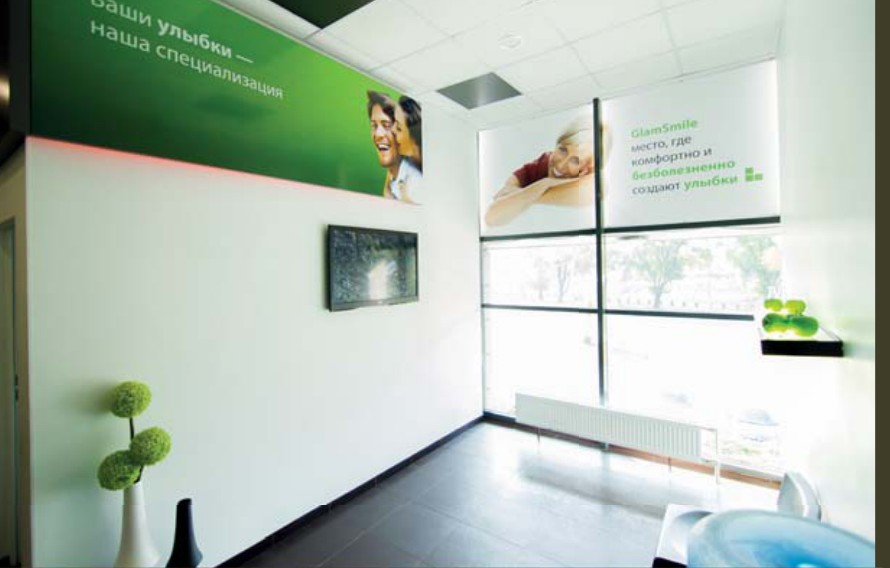
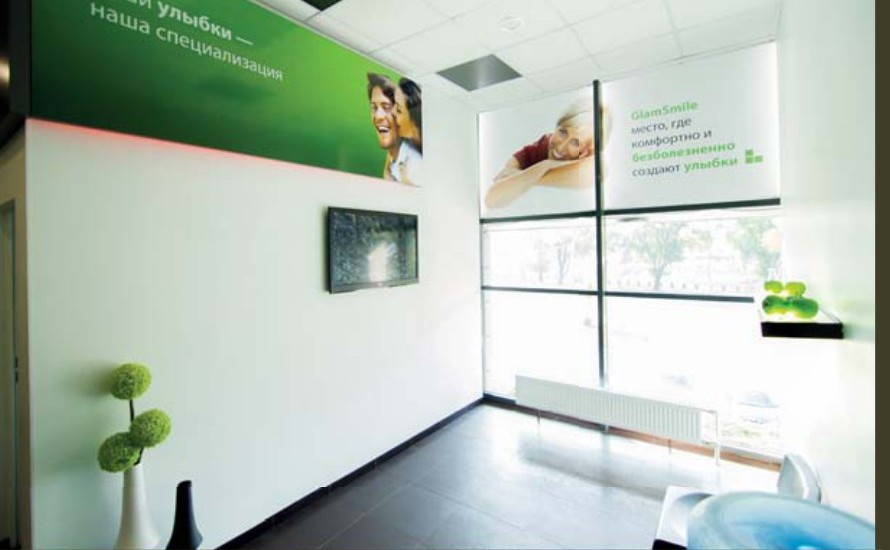
Верифікація ДентАрт 4(85)/2016: виправлено 6 статей
Мурадов, Рудо, Велге/Егбалі — відновлено пропущені блоки
Резюме/Ключові слова/Abstract/Key words (усі три забракли повністю).
Велге/Егбалі — додано рядок атрибуції джерела «Клуб стоматологів».
Мурадов — виправлено «непомітною» → «непоміченою» (зміна змісту
речення про деформацію відтиска).
Лазарєва «Техніка штампа» — виправлено дефіс («матовобілою» →
«матово-білою») і латинську літеру в alt-тексті («приховaний» →
«прихований»).
Вітальня Дахно — прибрано задвоєну фразу «Такою буде нова клініка.»
з початку відповіді (в оригіналі це лише підпис під фото).
GlamSmile (інтер'єр) — фото рецепції (102) повністю перезібрано з
сирих image-тайлів PDF замість рендера сторінки: заголовок рубрики
«ІНТЕР'ЄР...» був вбудований у растр лише під час рендерингу
сторінки (векторний шар), сирі тайли виявились абсолютно чистими;
2 інших фото (101, 103) донарізані від тонких смуг фону макета.

Чисто (без правок): Радлінський-абатмент, Демидов, Толкачова,
Ладигіна (підтверджено — легітимний передрук 2016№4→2023№1 у
самому журналі, не помилка архіву), Постолакі, Brown, Пам'яті
Политун, ART Колесніков.

diff --git a/statti-muradov-otrymannia-dvoetapnoho-dvosharovoho-vidtyska.html b/statti-muradov-otrymannia-dvoetapnoho-dvosharovoho-vidtyska.html
@@ -172,6 +172,12 @@ fbq('track', 'PageView');
         </div>
       </div>
       <div class="art-body">
+      <div class="abstract">
+        <div class="row"><div class="lbl">Резюме</div><div>У статті йдеться про популярний у незнімному протезуванні двоетапний двошаровий метод отримання відтиска і ті особливості та нюанси, на які слід звертати увагу, щоб досягти успіху при виготовленні ортодонтичних конструкцій. Серед цих нюансів — продуманий вибір відтискного матеріалу, належна підготовка протезного ложа при отриманні відтиска, ретельне виконання лікарем усіх вимог методики.</div></div>
+        <div class="row"><div class="lbl">Ключові слова</div><div>двоетапний двошаровий відтиск, поліефірні, А-силіконові, С-силіконові відтискні матеріали, коригуючі відтискні матеріали, протезне ложе, ретракція.</div></div>
+        <div class="row"><div class="lbl">Abstract</div><div class="en">This article discusses a popular fixed restoration procedure namely the two-stage method of taking a double-layer impression, as well as some aspects and subtleties that need to be taken into account in order to successfully make an orthodontic structure. These subtleties include a good choice of the impression material, appropriate preparation of the denture base when taking the impression, and strict adherence with the method on the part of the clinician.</div></div>
+        <div class="row"><div class="lbl">Key words</div><div class="en">a two-stage double-layer impression; polyether, А-silicone, С-silicone impression materials, correction impression materials, denture base, retraction.</div></div>
+      </div>
 <p class="lead">Існують різні класифікації відтисків за методом їх отримання, запропоновані вітчизняними і зарубіжними вченими. В основі однієї з останніх класифікацій лежить принцип етапності отримання відтиска, а також кількості шарів, з яких він складається.</p>
 
 <p>Згідно з цією класифікацією, сучасні методи отримання відтиска еластичними матеріалами можна розподілити на дві великі групи: одноетапні і двоетапні. При одноетапному знятті відтиска ложку з відтискним матеріалом накладають один раз і після виведення ложки з порожнини рота отриманий відтиск відправляють у лабораторію. Суть двоетапних методів полягає в тому, що відтиск знімають по черзі: спочатку базовою масою, а потім, після її структурування для уточнення деталей протезного ложа, роблять повторне накладання отриманого відтиска з додаванням коригувального матеріалу.</p>
@@ -264,7 +270,7 @@ fbq('track', 'PageView');
 
 <p>На другому етапі перед внесенням ложки в порожнину рота базовий відтиск заповнюють коригувальним матеріалом (фото 11). При використанні систем автозамішування установку внутрішньоротової канюлі на змішувальну доцільніше робити після того, як базовий відтиск заповнений коригувальним матеріалом (фото 12). Відразу після заповнення коригувальним матеріалом зони протезного ложа роблять спрямоване внесення матеріалу в зубоясенну борозенку навколо опорних зубів, звертаючи увагу на те, щоб кінчик канюлі був постійно занурений у матеріал (фото 13).</p>
 
-<p>Наступний етап — накладання базового відтиска. Дуже важливо провести правильне позиціонування відтиска у ротовій порожнині, звертаючи увагу на те, щоб ложка з базовим відтиском була максимально точно встановлена на зубному ряду. Під час полімеризації коригувального матеріалу відтиск утримують руками в нерухомому стані на зубному ряду. Після закінчення часу, потрібного для повного застигання матеріалу, відтиск виводять. При цьому слід звертати увагу на те, щоб шлях зміщення ложки із зубного ряду був максимально паралельний осі опорних зубів. На цьому етапі існує ризик виникнення деформації відтиска, яка залишиться непомітною і в подальшому може призвести до значних похибок готових ортопедичних конструкцій.</p>
+<p>Наступний етап — накладання базового відтиска. Дуже важливо провести правильне позиціонування відтиска у ротовій порожнині, звертаючи увагу на те, щоб ложка з базовим відтиском була максимально точно встановлена на зубному ряду. Під час полімеризації коригувального матеріалу відтиск утримують руками в нерухомому стані на зубному ряду. Після закінчення часу, потрібного для повного застигання матеріалу, відтиск виводять. При цьому слід звертати увагу на те, щоб шлях зміщення ложки із зубного ряду був максимально паралельний осі опорних зубів. На цьому етапі існує ризик виникнення деформації відтиска, яка залишиться непоміченою і в подальшому може призвести до значних похибок готових ортопедичних конструкцій.</p>
 
 <p>Після виведення готовий відтиск оцінюють (фото 14). Перевіряють якість відображення рельєфу поверхні протезного ложа, особливо приясенної зони опорних зубів (фото 15). На відтиску не має бути пор, порожнин або відтяжок, відтискна маса повинна щільно прилягати до стінок ложки. Після цього відтиск дезінфікують і відправляють у лабораторію.</p>
 

diff --git a/statti-lazarieva-tekhnika-shtampa-restavratsiia-bichnykh-zubiv.html b/statti-lazarieva-tekhnika-shtampa-restavratsiia-bichnykh-zubiv.html
@@ -187,9 +187,9 @@ fbq('track', 'PageView');
 <p>При таких відновленнях підійде матеріал з гарними мануальними властивостями Сегам.X One Universal/Dentsply DeTrey. У нього 7 відтінків, які відображають усю палітру відтінків шкали Віта. Завдяки усередненій прозорості між емаллю і дентином Сегам.X One Universal має яскраво виражений ефект хамелеона. Спрощена система вибору відтінків Сегам.X One Universal скорочує час для виконання естетичних реставрацій і усуває необхідність мати широкий асортимент відтінків. У цьому випадку відтінок досить світлий — А1 за шкалою Віта, відповідно, відтінок Сегам.X One Universal теж А1.</p>
 
 <div class="gal">
-  <figure><img class="aimg" src="images/laz164-002.jpg" width="497" height="303" loading="lazy" alt="Клінічний приклад — приховaний карієс, підбір відтінку"></figure>
-  <figure><img class="aimg" src="images/laz164-003.jpg" width="470" height="293" loading="lazy" alt="Клінічний приклад — приховaний карієс, підбір відтінку"></figure>
-  <figure><img class="aimg" src="images/laz164-004.jpg" width="497" height="284" loading="lazy" alt="Клінічний приклад — приховaний карієс, підбір відтінку"></figure>
+  <figure><img class="aimg" src="images/laz164-002.jpg" width="497" height="303" loading="lazy" alt="Клінічний приклад — прихований карієс, підбір відтінку"></figure>
+  <figure><img class="aimg" src="images/laz164-003.jpg" width="470" height="293" loading="lazy" alt="Клінічний приклад — прихований карієс, підбір відтінку"></figure>
+  <figure><img class="aimg" src="images/laz164-004.jpg" width="497" height="284" loading="lazy" alt="Клінічний приклад — прихований карієс, підбір відтінку"></figure>
 </div>
 
 <p>Перед препаруванням коригувальною відтискною масою (у цьому випадку А-силіконом) було знято відтиск-штамп з оклюзійної поверхні зуба. Для цієї мети можна використовувати текучий композит або рідкий світлоотверджувальний рабердам. Ці матеріали здатні досить точно відтворити оклюзійну анатомію, однак занадто крихкі і не дають можливості відтискувати композитний матеріал з невеликим тиском. Також можна використовувати прозору силіконову масу, проте застосування її в таких рідкісних випадках, на нашу думку, — марнотратство. Для зручного використання в матеріал можна занурити аплікатор. Штамп можна обрізати скальпелем, видаляючи надлишки коригуючої маси, щоб він ідеально адаптувався до поверхні зуба. У штампі чудово зберігаються всі тонкі деталі фісурного малюнка.</p>
@@ -206,7 +206,7 @@ fbq('track', 'PageView');
   <figure><img class="aimg" src="images/laz164-009.jpg" width="497" height="303" loading="lazy" alt="Зняття відтиску-штампа й тотальне протравлювання"></figure>
 </div>
 
-<p>Після протравлювання порожнину промивають протягом 30 с водою і злегка підсушують повітрям. Емаль при цьому повинна стати матовобілою, а дентин залишитися злегка вологим, «іскристим». Після правильно виконаної техніки тотального протравлювання поверхня емалі стає мікрошорсткою, змащений шар на поверхні дентину розчиняється і повністю видаляється, поверхневі шари дентину демінералізуються, оголюються колагенові волокна, розкриваються дентинні канальці.</p>
+<p>Після протравлювання порожнину промивають протягом 30 с водою і злегка підсушують повітрям. Емаль при цьому повинна стати матово-білою, а дентин залишитися злегка вологим, «іскристим». Після правильно виконаної техніки тотального протравлювання поверхня емалі стає мікрошорсткою, змащений шар на поверхні дентину розчиняється і повністю видаляється, поверхневі шари дентину демінералізуються, оголюються колагенові волокна, розкриваються дентинні канальці.</p>
 
 <p>Як правило, відсутність оптимального рівня вологості поверхні дентину є причиною виникнення післяопераційної чутливості і зниження сили адгезії. Ми надаємо перевагу спиртовмісній адгезивній системі Prime&amp;Bond One Etch &amp; Rinse/Dentsply DeTrey, яка демонструє чудові довготермінові результати за різного ступеня вологості дентину. Висушувати адгезив слід не надто сильним струменем повітря, оскільки це може призвести до блискавичного випаровування розчинника, перепаду осмотичного тиску в дентинних канальцях і травми одонтобластів. Правильне висушування адгезиву триває приблизно 30 с, у результаті стінки порожнини мають бути покриті тонкою блискучою плівкою. Ця плівка не повинна рухатися під дією струменя повітря.</p>
 

diff --git a/statti-velghe-eghbali-estetyka-u-frontalnii-diliantsi.html b/statti-velghe-eghbali-estetyka-u-frontalnii-diliantsi.html
@@ -175,6 +175,12 @@ fbq('track', 'PageView');
         </div>
       </div>
       <div class="art-body">
+      <div class="abstract">
+        <div class="row"><div class="lbl">Резюме</div><div>Мультидисциплінарний підхід відіграє значну роль у досягненні передбачуваних результатів лікування. У статті продемонстровано сучасний підхід точного аналізу і передопераційного планування при реконструкції втрачених зубів в естетично важливій ділянці щелепи. Описано клінічний випадок складної реконструкції в зоні двох втрачених центральних різців на верхній щелепі.</div></div>
+        <div class="row"><div class="lbl">Ключові слова</div><div>мультидисциплінарна стоматологія, імплантація зубів у фронтальній ділянці, реконструкція в естетично значущій зоні.</div></div>
+        <div class="row"><div class="lbl">Abstract</div><div class="en">Multidisciplinary collaboration plays a significant part in achieving predictable treatment results. This article raises awareness of the importance of accurate case analysis and pre-operative planning the reconstruction of two lost central incisors. The article describes the clinical case of complex reconstruction in the area of two lost central incisors in the upper jaw.</div></div>
+        <div class="row"><div class="lbl">Key words</div><div class="en">multidisciplinary dentistry, implantation in the frontal area, reconstruction in the aesthetically important region.</div></div>
+      </div>
 <p class="lead">У цій статті описано клінічний випадок реконструкції двох втрачених центральних різців на верхній щелепі. Після видалення зуба 11 було проведено заходи для збереження кісткової тканини альвеолярного відростка, а через 8 тижнів — процедуру імплантації з фіксацією провізорної ортопедичної конструкції. Безпосередньо перед встановленням тимчасового протеза був видалений зуб 21, в зоні якого відразу ж встановили дентальний імплантат.</p>
 
 <p>Втрата зубів в естетично важливій ділянці щелепи є причиною значного стресу для стоматологічних пацієнтів. Завдяки тому, що прогнозованість процедури дентальної імплантації зростає, відновлення ділянок адентії за допомогою інфраоссальних титанових структур набуває все більшої популярності. Нині критерієм успішності імплантації є не тільки сам факт остеоінтеграції імплантата, але також і естетичний результат лікування: важливо, щоб така реставрація гармоніювала з усмішкою, з основними структурами обличчя. У свою чергу періімплантатні м'які тканини повинні максимально відповідати параметрам інтактних ясен з урахуванням їх висоти, об'єму, відтінку і контуру, а реставрація — імітувати колір, форму, структуру, розмір та оптичні характеристики природного зуба і жодним чином не виділятися із зубного ряду.</p>
@@ -242,6 +248,8 @@ fbq('track', 'PageView');
 <h2>Висновки</h2>
 
 <p>Мультидисциплінарний командний підхід — важлива і значуща складова на шляху до досягнення прогнозованого результату лікування. Крім того, детальний аналіз та планування ятрогенних втручань відіграють не менш важливу роль у забезпеченні успішного результату реабілітації. Фото- та відеодокументація залишаються потужними інструментами повсякденної практики сучасних лікарів-стоматологів.</p>
+
+<div class="note">Статтю надав стоматологічний портал Клуб стоматологів (www.stomatologclub.ru)</div>
       </div>
     </article>
   </main>

diff --git a/statti-vitalnia-larysa-dakhno.html b/statti-vitalnia-larysa-dakhno.html
@@ -269,7 +269,7 @@ fbq('track', 'PageView');
 <p class="cap">Діти для мами — натхнення, а мама для них — приклад.</p>
 
 <p class="q">— За правилами бізнесу кожні 7 років потрібно робити щось нове, оскільки те, що ми робимо, до сьомого року починає перетворюватися на рутину, і далі неминуче настає кінець. Потрібно постійно шукати щось нове, щоб підніматися по сходинках вище і вище. І ось на Вашій сторінці у Фейсбуці з'явилося фото сучасної будівлі на вул. Зоологічній. Ви не побоялися про це публічно заявити. Що це за будівля?</p>
-<p class="a">— Такою буде нова клініка. Я довго думала, робити цей проект відомим чи приховувати до відкриття. Але у мене по життю завжди виходить так, що вербальне стає матеріальним. Тому я вирішила розповісти про початок будівництва нової клініки. «Клініка голови і шиї» (робоча назва) запланована як мультидисциплінарна клініка, де будуть працювати отоларингологи, стоматологи, щелепно-лицьові і пластичні хірурги. Уже сьогодні ми працюємо командою лікарів у такому складі, що й дало мені сили подумати про можливості реалізації великого проекту. У плані дитяче і доросле відділення, невеликий готель для приїжджих пацієнтів і родичів маленьких пацієнтів, аудиторія для навчання. Найбільша моя мрія — це кваліфіковане лікування та реабілітація дітей з вродженими патологіями. Ще раз повторюся, що люди, з якими я нині працюю, саме наша команда дає мені впевненість у тому, що ми все зможемо. Сьогодні це моя найбільша мрія.</p>
+<p class="a">— Я довго думала, робити цей проект відомим чи приховувати до відкриття. Але у мене по життю завжди виходить так, що вербальне стає матеріальним. Тому я вирішила розповісти про початок будівництва нової клініки. «Клініка голови і шиї» (робоча назва) запланована як мультидисциплінарна клініка, де будуть працювати отоларингологи, стоматологи, щелепно-лицьові і пластичні хірурги. Уже сьогодні ми працюємо командою лікарів у такому складі, що й дало мені сили подумати про можливості реалізації великого проекту. У плані дитяче і доросле відділення, невеликий готель для приїжджих пацієнтів і родичів маленьких пацієнтів, аудиторія для навчання. Найбільша моя мрія — це кваліфіковане лікування та реабілітація дітей з вродженими патологіями. Ще раз повторюся, що люди, з якими я нині працюю, саме наша команда дає мені впевненість у тому, що ми все зможемо. Сьогодні це моя найбільша мрія.</p>
 
 <div class="gal single">
   <figure><img class="aimg" src="images/dakh164-008.jpg" width="501" height="370" loading="lazy" alt="Такою буде нова клініка"></figure>

diff --git a/statti-rudo-mitsnist-na-zghynannia-i-modul-pruzhnosti-proty-trishchynostiikosti.html b/statti-rudo-mitsnist-na-zghynannia-i-modul-pruzhnosti-proty-trishchynostiikosti.html
@@ -172,6 +172,12 @@ fbq('track', 'PageView');
         </div>
       </div>
       <div class="art-body">
+      <div class="abstract">
+        <div class="row"><div class="lbl">Резюме</div><div>Кожному стоматологові потрібно мати глибокі знання про властивості матеріалів, які він застосовує у своїй практиці. Як довів Дж. Е. Гордон, матеріали ламаються не через недостатню міцність на згинання чи недостатній модуль пружності, а через низьку тріщиностійкість. Найбільш тріщиностійким стоматологічним матеріалом, армованим волокном, є Ріббонд. Для його створення використовуються ті самі суперміцні волокна надвисокомолекулярного поліетилену (UHMWP), що й у виробництві бронежилетів. Вони поєднані таким чином, що перешкоджають поширенню мікротріщин у полімерній матриці композиту.</div></div>
+        <div class="row"><div class="lbl">Ключові слова</div><div>стоматологічні матеріали, армовані волокном, Ріббонд, тріщиностійкість, міцність на згинання, модуль пружності.</div></div>
+        <div class="row"><div class="lbl">Abstract</div><div class="en">Every dentist should have profound knowledge about the qualities of materials that he or she uses in practice. J. E. Gordon proved that materials break not due to a lack of flexural strength or lack of flexural modulus but rather due to a lack of fracture toughness. Ribbond is the most fracture tough fiber-reinforced dental material. It is made of the same super tough Ultra-High Molecular Weight Polyethylene (UHMWP) fibers which are used in the making of bullet-proof vests. These fibers are mechanically interlocked to prevent crack propagation within the resin matrix.</div></div>
+        <div class="row"><div class="lbl">Key words</div><div class="en">fiber-reinforced dental materials, Ribbond, fracture toughness, flexural strength, flexural modulus.</div></div>
+      </div>
 <p class="lead">Якщо ви хочете зрозуміти, чому і як стоматологічні матеріали руйнуються і ламаються, то традиційне тестування міцності на згинання і тестування модуля пружності не дадуть вам потрібних фактів. Ці окремі типи тестування міцності дуже оманливі: вони дають хибне розуміння того, скільки енергії, навантаження і роботи руйнування потрібно, щоб зламати стоматологічний матеріал.</p>
 
 <p>Реальне розуміння того, чому і як матеріали руйнуються, найліпшим чином сформулював професор Дж. Е. Гордон (1913-1998) — один із засновників сучасної науки про матеріали. Професор Гордон стверджував, що матеріали ламаються не через недостатню міцність на згинання чи недостатній модуль пружності, а через низьку тріщиностійкість. Тріщиностійкість — це здатність матеріалу чинити опір швидкому поширенню тріщини і таким чином перешкоджати руйнуванню. А міцність на згинання і модуль пружності — це властивості жорсткості.</p>

diff --git a/statti-interier-klinika-glamsmile-kharkiv.html b/statti-interier-klinika-glamsmile-kharkiv.html
@@ -167,9 +167,9 @@ fbq('track', 'PageView');
       </div>
       <div class="art-body">
 <div class="gal">
-  <figure><img class="aimg wide" src="images/glem164-102.jpg" width="1785" height="1357" loading="lazy" alt="Рецепція стоматологічної студії GlamSmile"></figure>
-  <figure><img class="aimg" src="images/glem164-101.jpg" width="920" height="600" loading="lazy" alt="Кабінет і дзеркальна зона студії GlamSmile"></figure>
-  <figure><img class="aimg" src="images/glem164-103.jpg" width="890" height="568" loading="lazy" alt="Зона очікування студії GlamSmile"></figure>
+  <figure><img class="aimg wide" src="images/glem164-102.jpg" width="2499" height="1648" loading="lazy" alt="Рецепція стоматологічної студії GlamSmile"></figure>
+  <figure><img class="aimg" src="images/glem164-101.jpg" width="920" height="572" loading="lazy" alt="Кабінет і дзеркальна зона студії GlamSmile"></figure>
+  <figure><img class="aimg" src="images/glem164-103.jpg" width="890" height="550" loading="lazy" alt="Зона очікування студії GlamSmile"></figure>
   <figure><img class="aimg" src="images/glem164-104.jpg" width="890" height="568" loading="lazy" alt="Коридор студії GlamSmile з фірмовою навігацією"></figure>
 </div>
 <p class="cap">Стоматологічна студія «ГлемСмайл», Харків, Україна.</p>
